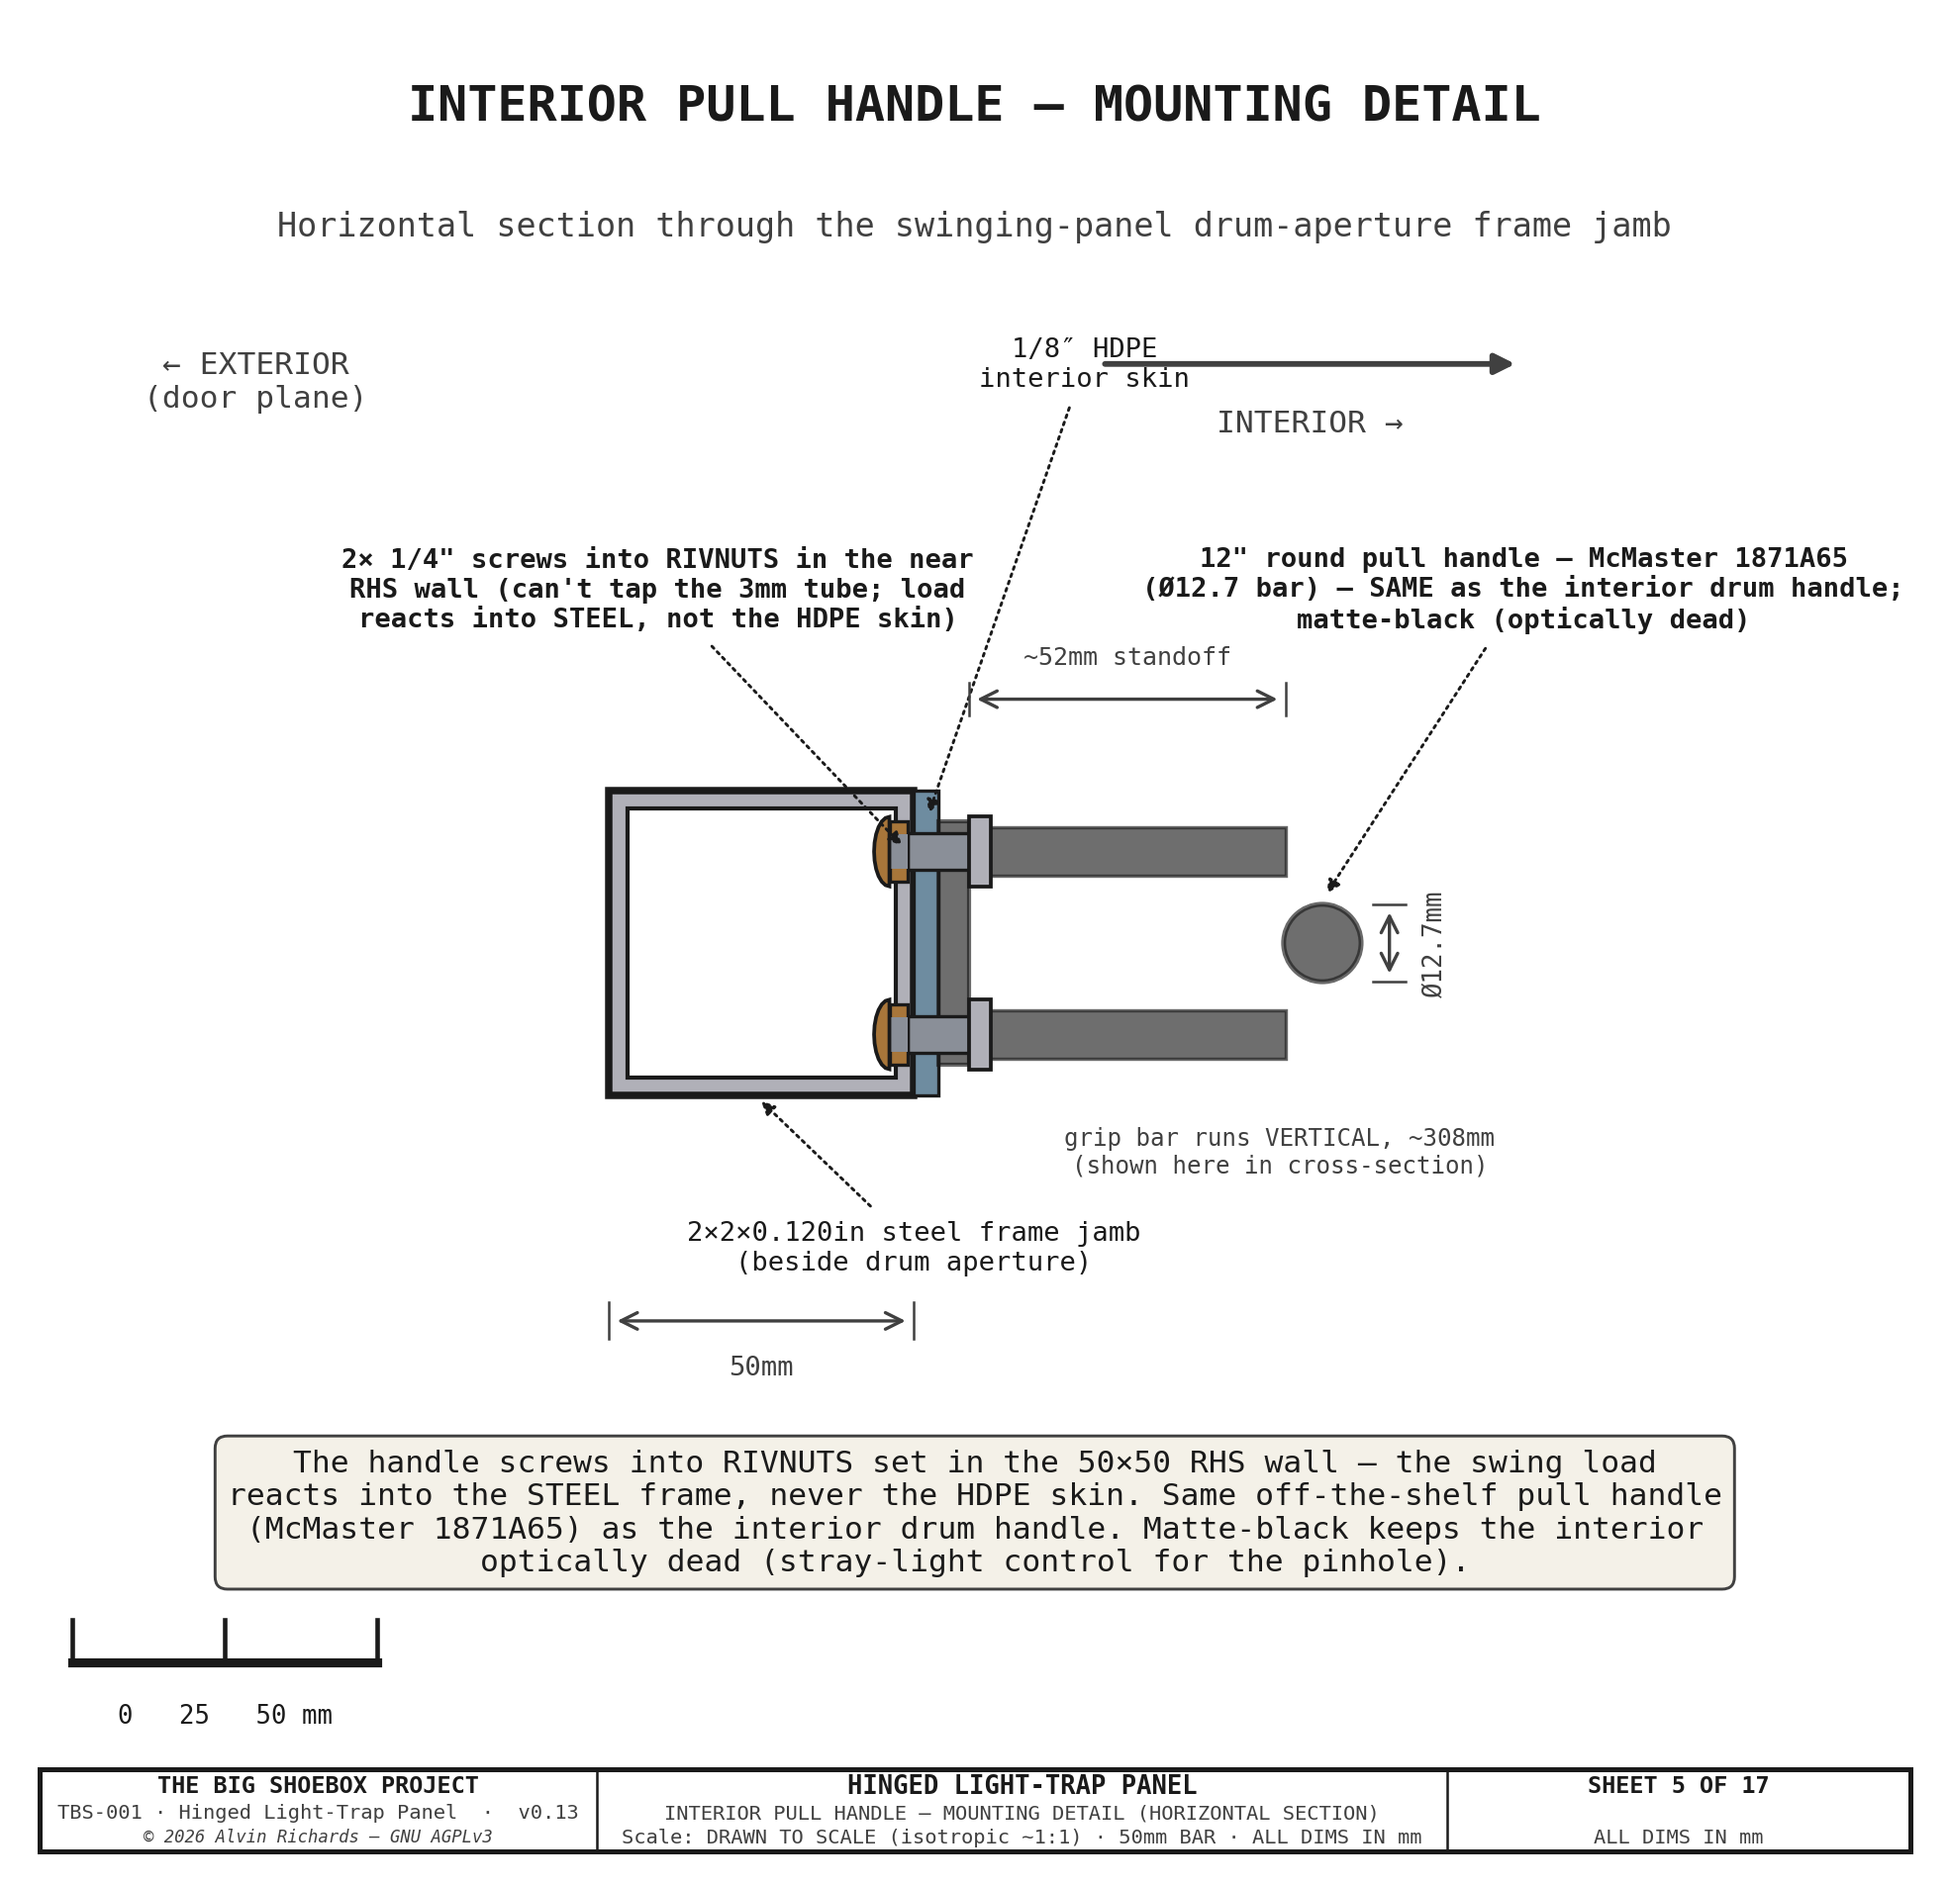
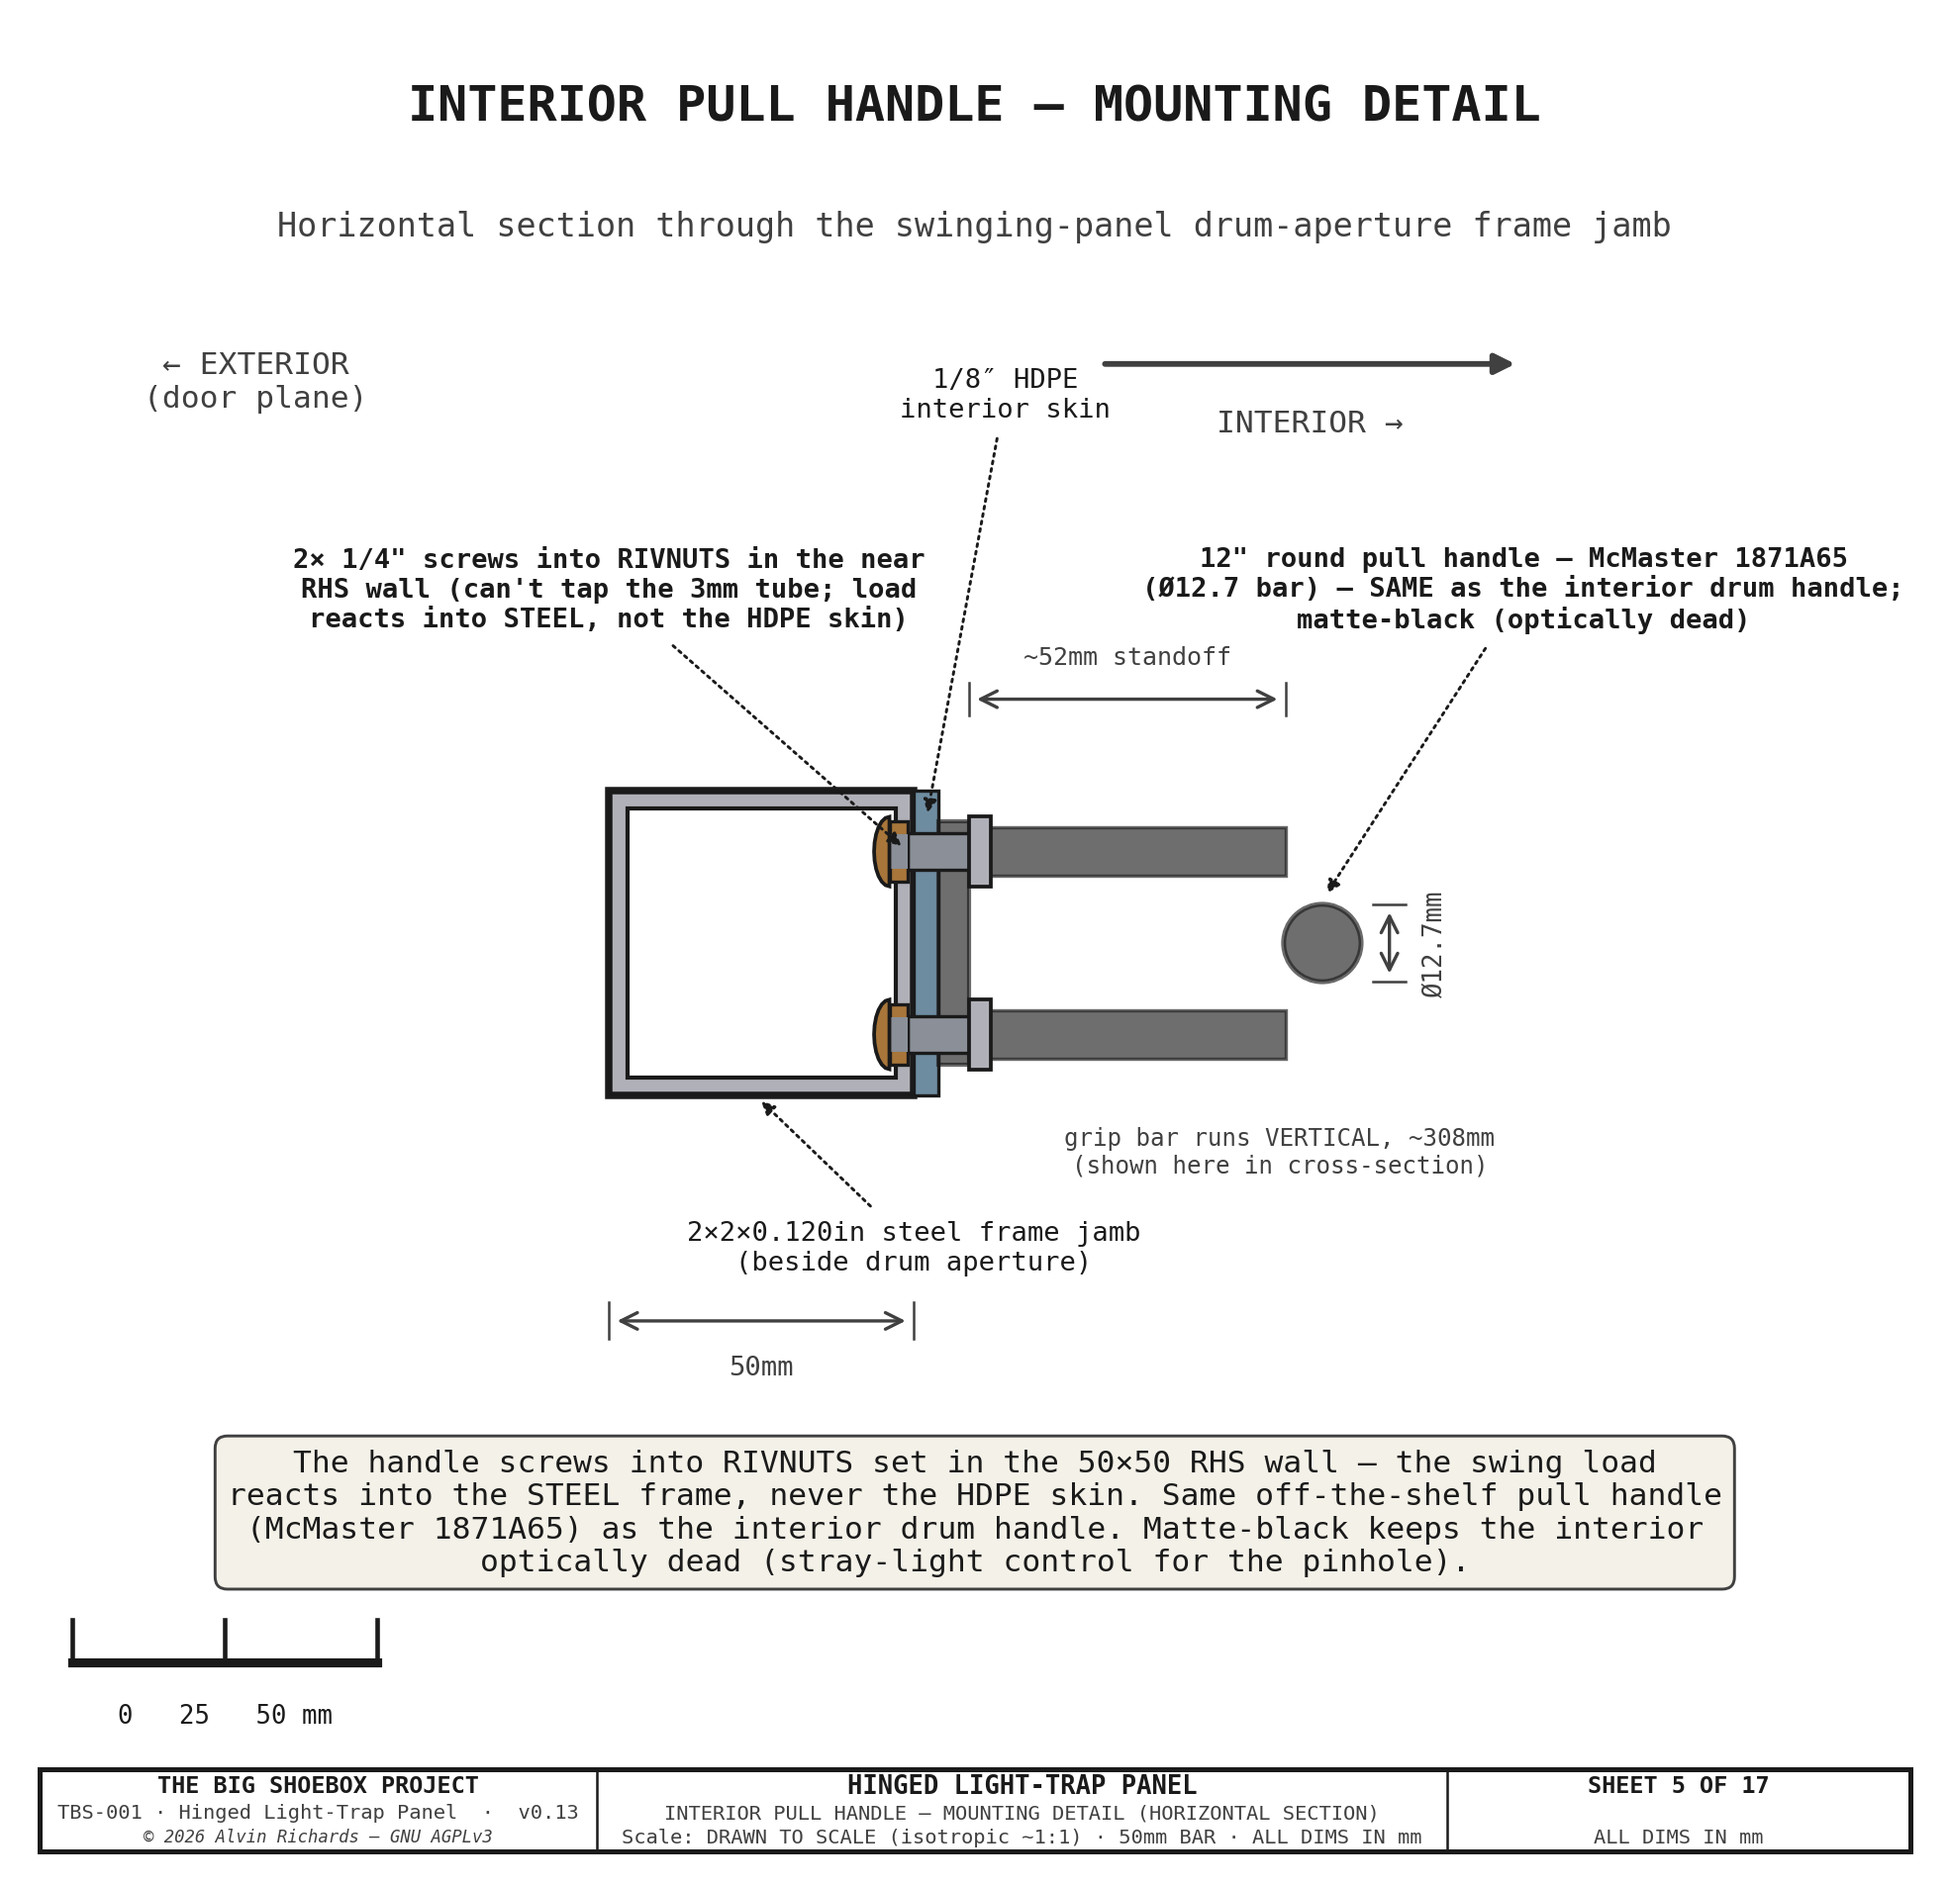
Tidy labels

Changed region(s): [[0.1549, 0.2784, 0.4957, 0.3403], [0.4647, 0.1547, 0.5886, 0.2166]]

diff --git a/src/generators/generate_hingepanel_diagram.py b/src/generators/generate_hingepanel_diagram.py
@@ -1484,7 +1484,7 @@ def sheet5():
     leader(ax, (24, -25), (50, -50), "2×2×0.120in steel frame jamb\n(beside drum aperture)", col=C_OUT)
     # 1/8″ HDPE interior skin on the +X face
     ax.add_patch(Rectangle((50, -25), 4, 50, fc=C_PLASTIC, ec=C_OUT, lw=0.8, zorder=4))
-    leader(ax, (52, 20), (78, 95), "1/8″ HDPE\ninterior skin", col=C_OUT)
+    leader(ax, (52, 20), (65, 90), "1/8″ HDPE\ninterior skin", col=C_OUT)
     # 1871A65 round pull handle (SAME part as the interior drum handle): foot plate,
     # two ~52mm standoff posts, Ø12.7 grip bar (vertical → a circle in this section).
     HA = 0.65
@@ -1497,7 +1497,7 @@ def sheet5():
     # 2× 1/4" screws through the feet into RIVNUTS set in the near RHS wall (load into steel, not the skin)
     for by in (-15, 15):
         _draw_bolt(ax, 54, by, 10, d=6, vertical=False, head=1, end="rivnut", wall=3, zb=7)
-    leader(ax, (49, 15), (8, 58),
+    leader(ax, (49, 15), (0, 58),
            "2× 1/4\" screws into RIVNUTS in the near\nRHS wall (can't tap the 3mm tube; load\nreacts into STEEL, not the HDPE skin)", col=C_OUT, fw="bold")
 
     # ── dimensions (prove the drawing is to scale) ──
